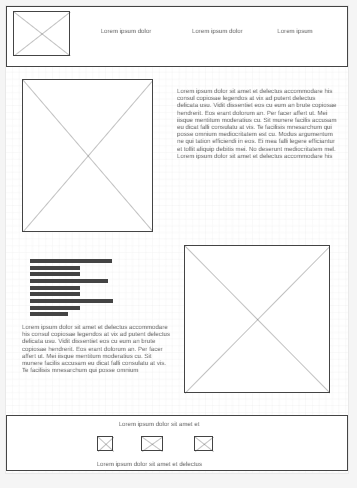
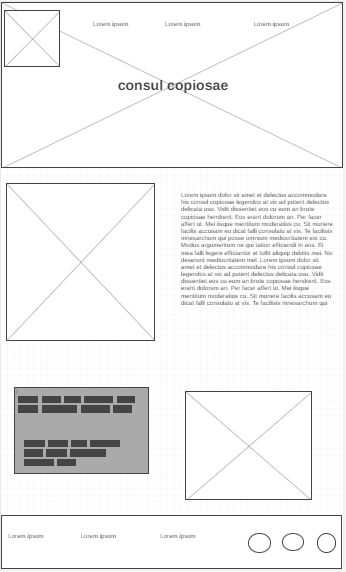
added contact page

diff --git a/my_portfolio/contact.html b/my_portfolio/contact.html
@@ -4,44 +4,49 @@
     <meta charset="UTF-8">
     <meta name="viewport" content="width=device-width, initial-scale=1.0">
     <link rel="stylesheet" href="styles/styles.css" >
-    <title>Bettina Menya Portfoio| Home </title>
+    <title>Bettina Menya Portfoio| Contact </title>
 </head>
 <body>
  <header>
-  <a  id="logo" href=" " target="_blank"><img src="portfolio_images/my_logo.png"> </a>
+  <a  id="logo" href=" " target="_blank"><img src="portfolio_images/my_logo.png" alt="image of a laptop"> </a>
   <nav>
     <a href="index.html">Home</a>
     <a href="projects.html">See My Projects</a>
     <a href="contact.html">Contact</a>
   </nav>   
  </header>
- <main id="content">
+ <main>
     <div id="top-background">
         <img id="top-image" src="portfolio_images/homepage_photo4.jpg" alt="photo of computer">
-        <h2 id="top-heading">Contact</h2>
+        <h2 id="top-heading">Contact Me</h2>
     </div>
- <p>Thank you for visiting my website and taking the time to explore my work. I appreciate your interest, and I look forward to connecting with you. Whether you have questions,
-    inquiries, or you're interested in collaborating on a project, I'm here to assist and provide the information you need. 
-    Please feel free to reach out to me using the following contact details:</p>
+ <div id="content_page3">
+     <img id="contact-pic1" src="portfolio_images/contactpage_photo1.avif" alt="animated photo">
+     <img id="contact-pic2" src="portfolio_images/contactpage_photo2.jpg" alt="animated photo">
+      <p id="thankyou-msg">Thank you for visiting my website and taking the time to explore my work. I appreciate your interest, and I look forward to connecting with you. Whether you have questions,
+     inquiries, or you're interested in collaborating on a project, I'm here to assist and provide the information you need. 
+     Please feel free to reach out to me using the following contact details:
+     </p>
   
- <p> <img src="portfolio_images/linkedin_logo.png" alt="linkedin icon"> bettina-menya </p>  
- <p><img src="portfolio_images/email_logo.png" alt="email_icon"> betinalucher@gmail.com</p>
+      <p id="linkedin_logo"> <img  src="portfolio_images/linkedin_logo.png" alt="linkedin icon"> linkedin.com/in/bettina-menya</p>
+      <p id="email_logo"> <img  src="portfolio_images/email_logo.png" alt="email_icon"> betinalucher@gmail.com </p>
  
- <div id="form">
-   <form action="/my-handling-form-page" method="post">
-    <fieldset>
-        <legend>Get In Touch</legend>
-        <label for="name">Name:</label>
-        <input type="text" id="name" name="name">
-        <label for="mail">Email:</label>
-        <input type="email" id="mail" name="user_mail">
-        <label for="message">Message:</label>
-        <textarea id="msg" name="user_message"></textarea>
-
-    </fieldset>
-    <button type="submit">Send Your Message</button>
-  </form>
+      <div id="form">
+        <form action="/my-handling-form-page" method="post">
+          <fieldset>
+           <legend>Get In Touch</legend>
+           <label for="name">Name:</label>
+           <input type="text" id="name" name="name">
+           <label for="mail">Email:</label>
+           <input type="email" id="mail" name="user_mail">
+           <label for="message">Message:</label>
+           <textarea id="message" name="user_message"></textarea>
+          </fieldset>
+         <button type="submit">Send Your Message</button>
+        </form>
+      </div>
  </div>
+
 </main>    
 <footer>
     <p id="footer-msg">All Rights Reserved &copy;2023</p>

diff --git a/my_portfolio/styles/styles.css b/my_portfolio/styles/styles.css
@@ -136,9 +136,7 @@ height: 150px;
 
 
 a:hover{
-    background-color:#FCA311;
-    color:#14213D;
-    
+    color:#FCA311;
 }
 /*css of specific elements of page 2*/
 #page2-heading{
@@ -159,8 +157,8 @@ a:hover{
     grid-column: 2/4;
     grid-row:1/2;
     align-content: center;
-    align-content: center;
     margin-top: 100px;
+    
     
 }
 #progress-pic{
@@ -183,4 +181,82 @@ a:hover{
     margin:15px;
     text-align: center;
     
+}
+/*css of specific elements of contact page*/
+
+#content_page3{
+    margin-top: 300px;
+    display: grid;
+    grid-template-columns: repeat(6, 1fr);
+    grid-template-rows:repeat(7,1fr) ;
+}
+#contact-pic1{
+    width: 100%;
+    grid-column: 1/4;
+    grid-row: 1/4;
+}
+#thankyou-msg{
+    font-family: 'Open Sans', Arial, Helvetica, sans-serif;
+    font-weight: 200;
+    font-size: 120%;
+    line-height: 60px;
+    text-align: center;
+    margin: 20px;
+    color: #14213D;
+    grid-column: 4/7;
+    grid-row: 1/3;
+    background-color: #E5E5E5;
+    border-radius: 20px;
+    padding:20px;
+    box-shadow: 3px 3px 3px #FCA311 
+
+}
+#linkedin_logo{
+    grid-column: 4/6;
+    grid-row: 3/4;
+    margin-left: 50px;
+    margin-top: 10px;
+}
+#email_logo{
+    grid-column:4/6;
+    grid-row:4/5 ;
+    margin-left: 50px;
+}
+#contact-pic2{
+    width: 100%;
+    grid-column: 4/7;
+    grid-row: 5/8;
+    margin-top: 50px;
+    border-radius: 350px;
+    
+}
+
+
+#form{
+    grid-column:1/4;
+    grid-row:5/8;
+    margin:150px 20px;
+    
+    
+}
+label,button,legend{
+    font-family:'IBM Plex Mono', Arial, Helvetica, sans-serif; 
+    font-size: 200%;
+    
+    color:#14213D;
+   
+}
+button{
+    margin-top: 30px;
+    background-color: #FCA311;
+    border-radius: 10px;
+}
+input{
+    height: 5em;
+    border-radius: 10px;
+}
+textarea{
+    width: 100%;
+    height: 10em;
+    border-radius: 10px;
 }

diff --git a/my_portfolio/projects.html b/my_portfolio/projects.html
@@ -16,8 +16,7 @@
      <a href="projects.html">See My Projects</a>
      <a href="contact.html">Contact</a>
     </nav>   
-   
-   </header>
+</header>
 
 
 <main id="content">
@@ -25,17 +24,17 @@
         <img id="top-image" src="portfolio_images/homepage_photo4.jpg" alt="photo of computer">
         <h1 id="projects-heading">See My Projects</h1>
     </div>
-<h1 id="page2-heading"> Explore some of my projects</h1>
+    <h1 id="page2-heading"> Explore some of my projects</h1>
 
-<div id="Projects_icons">
-<a id='dry-oar-logo' href="https://bettina-m.github.io/wdd130/wwr/index.html" target="_blank">
-    <img src="portfolio_images/rafting_website_logo.png" alt="Image of Rafting Site">
-</a>
-<p id="rafting-heading">Class project: Water Rafting Site</p>
+    <div id="Projects_icons">
+        <a id='dry-oar-logo' href="https://bettina-m.github.io/wdd130/wwr/index.html" target="_blank">
+        <img src="portfolio_images/rafting_website_logo.png" alt="Image of Rafting Site">
+        </a>
+        <p id="rafting-heading">Class project: Water Rafting Site</p>
 
- <img id='progress-pic' src="portfolio_images/indevelopment_projects_pics.avif"  alt="construction photo">
- <p id="progress-text">Keep an eye on this space for updates on both completed and upcoming projects.</p>
-</div>  
+        <img id='progress-pic' src="portfolio_images/indevelopment_projects_pics.avif"  alt="construction photo">
+        <p id="progress-text">Keep an eye on this space for updates on both completed and upcoming projects.</p>
+    </div>  
 </main>  
 
 <footer>
